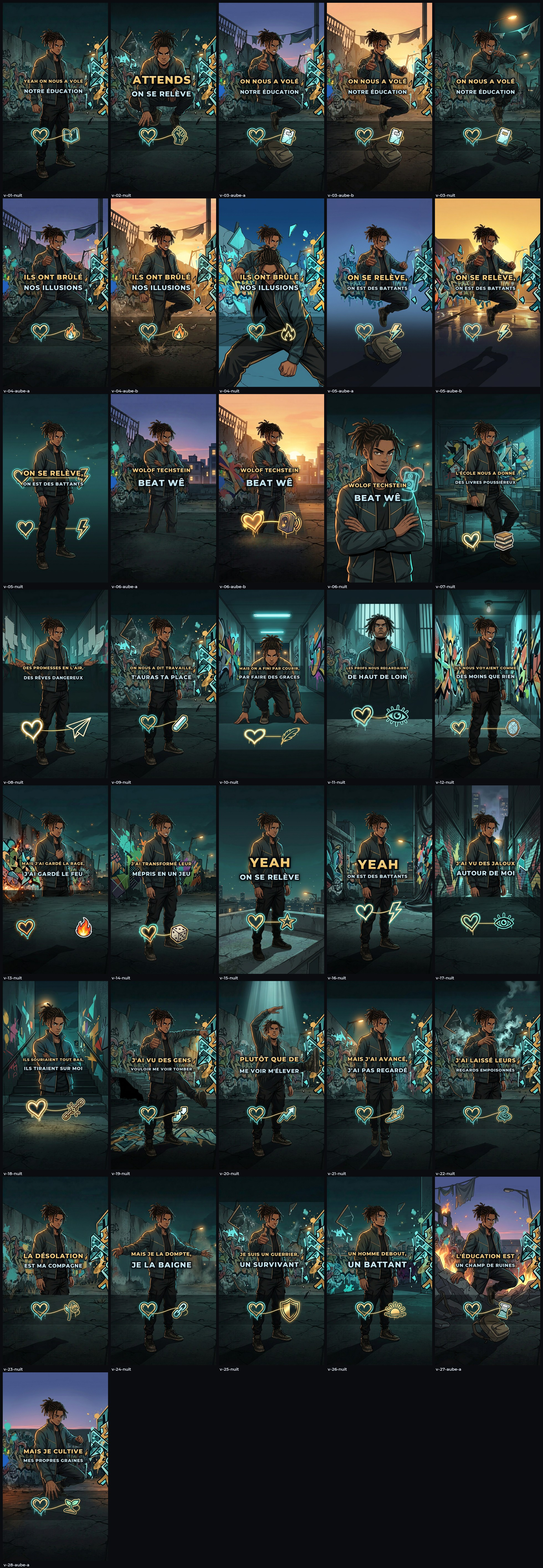
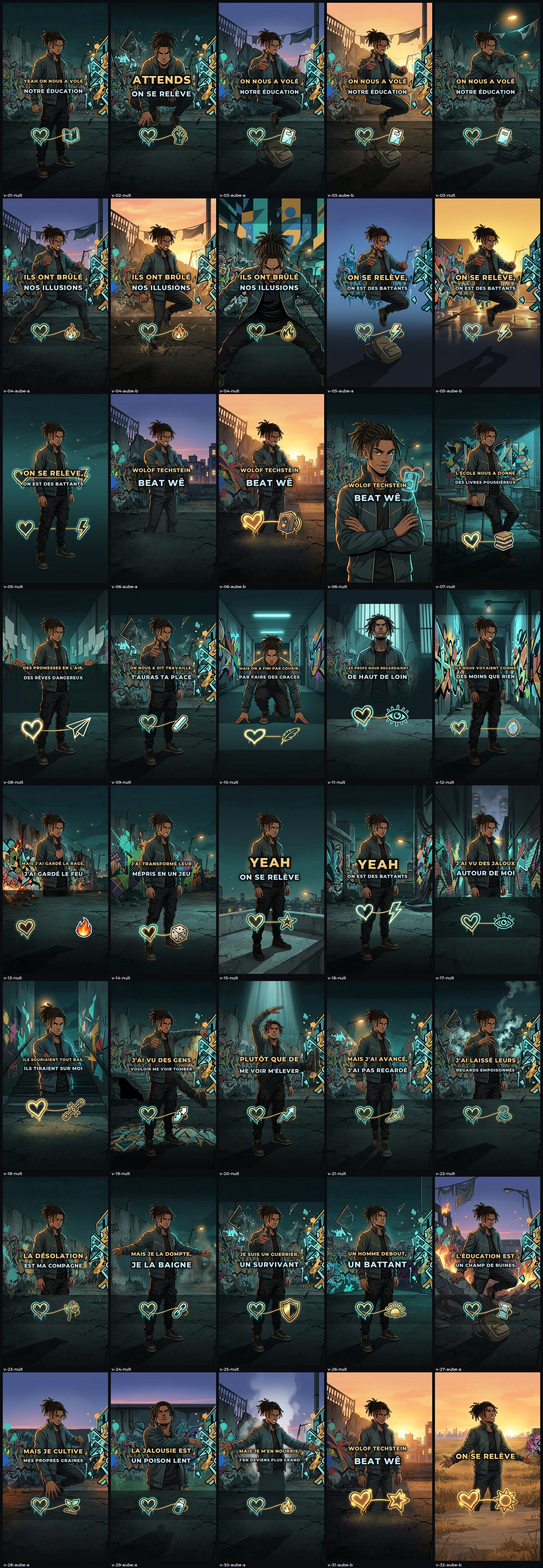
40/40 plans cuits; carte finale MERCI WTBW; cartes animees (0 gel a -33dB); rendu 210,92 s valide (0 noire, 0 gel, -14,04 LUFS, crete -1,86)

Changed region(s): [[0.1867, 0.871, 0.9959, 1.0], [0.4046, 0.1244, 0.6224, 0.2489], [0.2179, 0.9954, 0.249, 1.0]]

diff --git a/productions/on-nous-a-vole-notre-education/render.py b/productions/on-nous-a-vole-notre-education/render.py
@@ -109,18 +109,19 @@ def build_vignette():
                     px[xx, yy] = v
     return m.filter(ImageFilter.GaussianBlur(34))
 
-def build_grains(n=4, seed=1776):
+def build_grains(n=8, seed=1776):
     out = []
     rnd = random.Random(seed)
     for k in range(n):
-        g = Image.effect_noise((W, H), 26 + k).convert("L")
+        g = Image.effect_noise((W, H), 26 + 2 * k).convert("L")
         out.append(g)
     return out
 
 VIGNETTE = None
 GRAINS = None
+CARD_GRAIN = float(os.environ.get("CARD_GRAIN", "0.28"))
 
-def post(frame, k):
+def post(frame, k, grain=0.045):
     """vignette masque L + grain 35 mm cyclé sur Brightness 1.09 (§5.5)."""
     global VIGNETTE, GRAINS
     if VIGNETTE is None:
@@ -129,8 +130,8 @@ def post(frame, k):
     black = Image.new("RGB", frame.size, DARK)
     f = Image.composite(black, frame, VIGNETTE)
     f = f.point(lambda v: min(255, int(v * 1.09)))
-    g = GRAINS[(k // 2) % 4].convert("RGB")
-    return Image.blend(f, g, 0.045)
+    g = GRAINS[k % len(GRAINS)].convert("RGB")
+    return Image.blend(f, g, grain)
 
 # ------------------------------------------------------------------ vecteurs
 def ss_draw(size, fn, ss=3):
@@ -242,10 +243,17 @@ def draw_sticker(base, idx, cx, cy, t, alpha=1.0):
 
 # ------------------------------------------------------------------ cartes
 def card_bg(plan, t, blur=9, bright=0.72):
+    """fond de carte : zoom lent + dérive continue (mouvement RÉEL, jamais un gel)."""
     u = (t * 0.04) % 1.0
-    x0 = SCX * (0.15 + 0.7 * (0.5 - 0.5 * math.cos(2 * math.pi * u)))
-    y0 = SCY * 0.5
-    im = plan.window(x0, y0).filter(ImageFilter.GaussianBlur(blur))
+    v = (t * 0.07) % 1.0
+    z = 1.04 + 0.035 * math.sin(2 * math.pi * (t * 0.13))
+    w, h = int(W * z), int(H * z)
+    cx = BW * (0.5 + 0.10 * math.cos(2 * math.pi * u))
+    cy = BH * (0.5 + 0.10 * math.cos(2 * math.pi * v))
+    x0 = max(0, min(BW - w, cx - w / 2))
+    y0 = max(0, min(BH - h, cy - h / 2))
+    im = plan.window(x0, y0, w, h).resize((W, H), Image.LANCZOS)
+    im = im.filter(ImageFilter.GaussianBlur(blur))
     im = im.point(lambda v: int(v * bright))
     scrim = Image.new("RGB", (W, H), (6, 9, 14))
     return Image.blend(im, scrim, 0.55)
@@ -313,9 +321,9 @@ def draw_card_end(t, plan, titre, artiste):
     header(base)
     a = int(255 * min(1, t / 0.5))
     dr = ImageDraw.Draw(base)
-    draw_spaced(dr, (W / 2, 452), "MERCI D'AVOIR ÉCOUTÉ !", font("ExtraBold", 62),
-                (255, 255, 255, a), spacing=1, anchor_center=True, stroke=3, stroke_fill=(0, 0, 0, a))
-    dr.text((W / 2, 548), "Wolof TechStein beat wê (WTBW)", font=font("SemiBold", 34),
+    draw_spaced(dr, (W / 2, 436), "MERCI · WTBW", font("ExtraBold", 76),
+                (255, 255, 255, a), spacing=2, anchor_center=True, stroke=4, stroke_fill=(0, 0, 0, a))
+    dr.text((W / 2, 566), "Merci d'avoir écouté · Wolof TechStein beat wê", font=font("SemiBold", 30),
             fill=(244, 197, 98, a), anchor="mm")
     plaque(base, f"{titre.upper()} · {artiste.upper()}", 700, alpha=a)
     for k in range(3):
@@ -560,9 +568,9 @@ def main():
     for k in range(n):
         t = start + k / FPS
         if t < t0:
-            frame = post(draw_card_intro(t, t0, first_plan, doc["titre"], doc["artiste"]), k)
+            frame = post(draw_card_intro(t, t0, first_plan, doc["titre"], doc["artiste"]), k, grain=CARD_GRAIN)
         elif t >= doc["audio_duree_s"]:
-            frame = post(draw_card_end(t - doc["audio_duree_s"], last_plan, doc["titre"], doc["artiste"]), k)
+            frame = post(draw_card_end(t - doc["audio_duree_s"], last_plan, doc["titre"], doc["artiste"]), k, grain=CARD_GRAIN)
         else:
             idx = 0
             for j, s in enumerate(plans):
